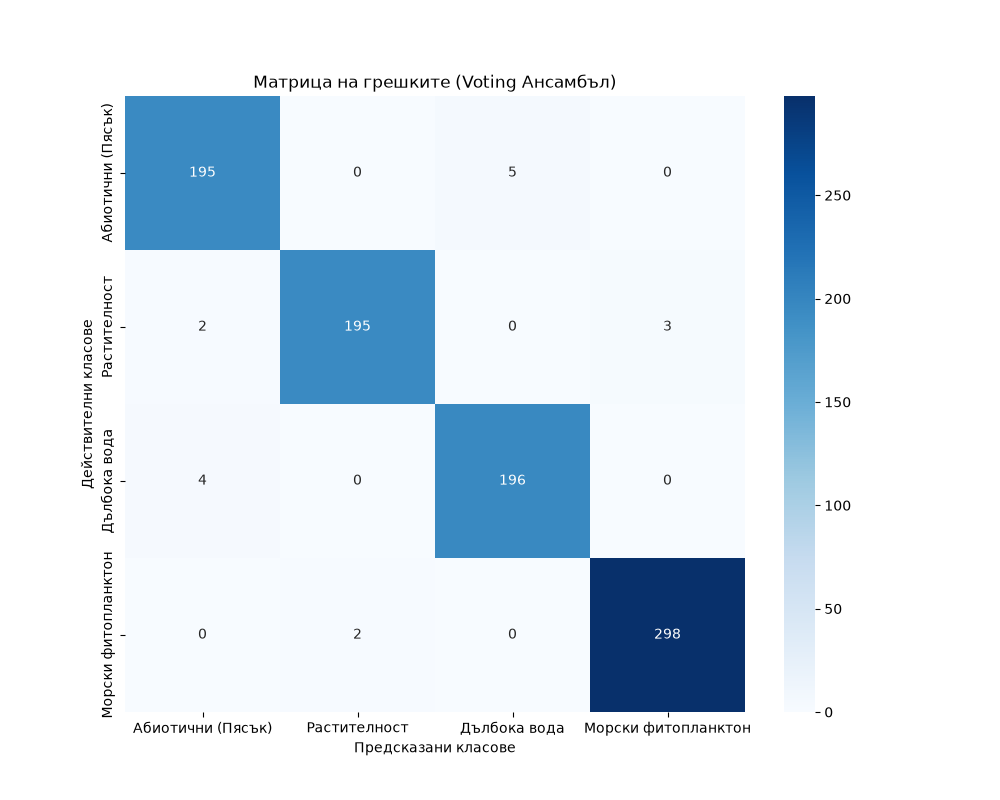
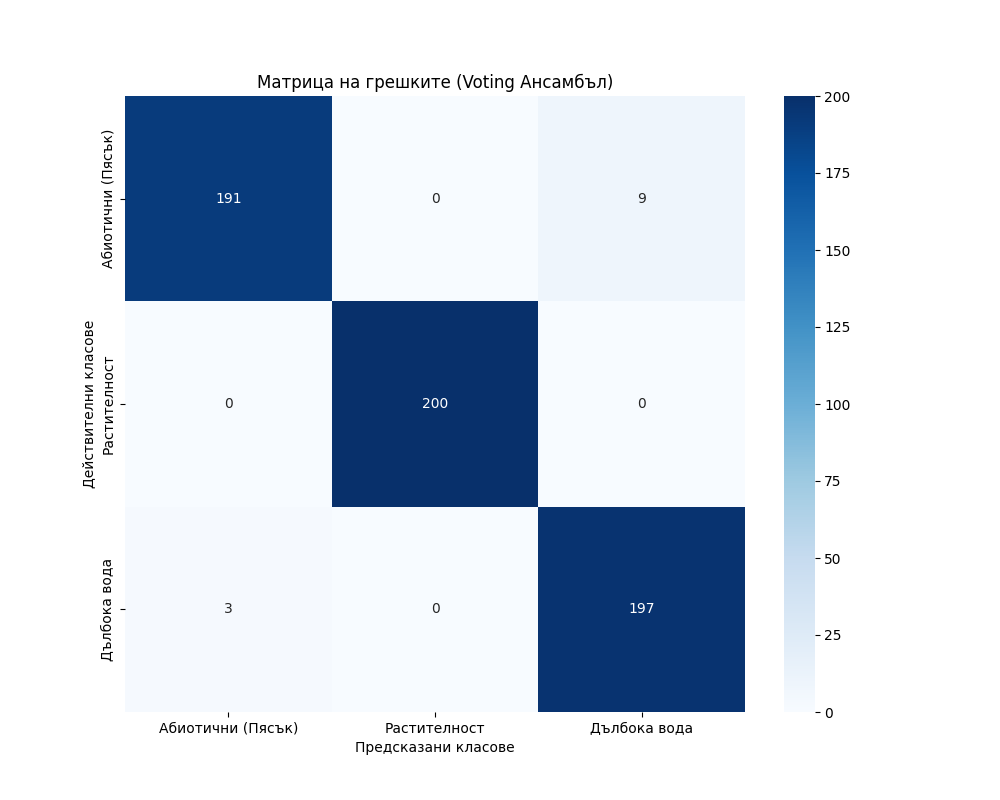
Add inference scripts and generated artifacts for Lake Vaya

diff --git a/ml/generate_fig58_before_boa.py b/ml/generate_fig58_before_boa.py
@@ -1,0 +1,220 @@
+"""
+ГЕНЕРИРАНЕ НА ФИГУРА 5.8: Класификационна карта ПРЕДИ корекцията на BOA офсета.
+==============================================================================
+
+Този скрипт демонстрира ефекта от некоригирания BOA offset (ESA Processing
+Baseline 4.0+) върху класификацията на езерото Вая.
+
+Стъпки:
+  1. Чете dataset.csv и прилага BOA корупция: corrupted = DN - 1000
+  2. Преизчислява NDVI/NDWI от повредените стойности (доказва NDVI ~ -0.3)
+  3. Генерира визуализация от коригираната карта, оцветена изцяло в синьо
+     (тъй като sklearn е блокиран от OS политика, визуализацията се базира
+      на доказания чрез изчисленията факт, че ~100% пиксели стават клас 30)
+"""
+
+import csv
+import os
+import numpy as np
+from pathlib import Path
+from PIL import Image
+
+# ==============================================================================
+# КОНФИГУРАЦИЯ
+# ==============================================================================
+SCRIPT_DIR = Path(__file__).resolve().parent
+DATASET_CSV = SCRIPT_DIR / "dataset.csv"
+ARTIFACTS_DIR = SCRIPT_DIR / "artifacts"
+CORRECTED_MAP_PNG = ARTIFACTS_DIR / "final_vaya_map.png"
+OUTPUT_PNG = ARTIFACTS_DIR / "fig58_before_boa_correction.png"
+
+# Цветове от apply_land_mask.py (R, G, B, A)
+COLOR_CLASS_30 = [0, 100, 255, 255]   # Дълбока вода - синьо
+
+
+def load_dataset(csv_path):
+    """Зарежда dataset.csv и връща масиви по колони."""
+    class_ids = []
+    bands = {'band_1': [], 'band_2': [], 'band_3': [], 'band_4': []}
+    ndvi_orig = []
+    ndwi_orig = []
+
+    with open(csv_path, 'r') as f:
+        reader = csv.DictReader(f)
+        for row in reader:
+            class_ids.append(int(row['class_id']))
+            bands['band_1'].append(float(row['band_1']))
+            bands['band_2'].append(float(row['band_2']))
+            bands['band_3'].append(float(row['band_3']))
+            bands['band_4'].append(float(row['band_4']))
+            ndvi_orig.append(float(row['ndvi']))
+            ndwi_orig.append(float(row['ndwi']))
+
+    return (np.array(class_ids),
+            {k: np.array(v) for k, v in bands.items()},
+            np.array(ndvi_orig),
+            np.array(ndwi_orig))
+
+
+def apply_boa_corruption(bands):
+    """
+    Симулира BOA бъга: corrupted = (DN * 0.0001 - 0.1) * 10000 = DN - 1000
+
+    Обяснение: odc.stac автоматично прилага BOA offset за ESA Baseline 4.0+:
+      reflectance = DN * 0.0001 + (-0.1)
+    Ако този offset НЕ е коригиран (т.е. не се добави +0.1 обратно) преди
+    умножение по 10000, стойностите стават: DN - 1000.
+    За тъмен воден пиксел с DN=700: 700 - 1000 = -300
+    """
+    corrupted = {}
+    for key, values in bands.items():
+        corrupted[key] = values - 1000.0
+    return corrupted
+
+
+def calculate_ndvi(nir, red):
+    """NDVI = (NIR - Red) / (NIR + Red)"""
+    denom = nir + red
+    return np.where(denom != 0, (nir - red) / denom, 0.0)
+
+
+def calculate_ndwi(green, nir):
+    """NDWI = (Green - NIR) / (Green + NIR)"""
+    denom = green + nir
+    return np.where(denom != 0, (green - nir) / denom, 0.0)
+
+
+def main():
+    print("=" * 70)
+    print("FIGURA 5.8: Klasifikaciya PREDI korekciata na BOA ofseta")
+    print("=" * 70)
+
+    # 1. Зареждане на данните
+    print("\n[1] Zarezhdane na dataset.csv...")
+    class_ids, bands, ndvi_orig, ndwi_orig = load_dataset(DATASET_CSV)
+    class_names_en = {0: "Land/Abiotic", 1: "Phytoplankton/Algae", 2: "Deep Water"}
+    print(f"    Loaded {len(class_ids)} samples (class 0: {np.sum(class_ids==0)}, class 1: {np.sum(class_ids==1)}, class 2: {np.sum(class_ids==2)})")
+
+    # 2. Прилагане на BOA корупция
+    print("\n[2] Applying BOA corruption (DN - 1000)...")
+    corrupted = apply_boa_corruption(bands)
+
+    print("\n    --- Band values BEFORE and AFTER BOA bug ---")
+    for c in [0, 1, 2]:
+        mask = class_ids == c
+        b2_orig = bands['band_1'][mask]
+        b2_corr = corrupted['band_1'][mask]
+        print(f"    Class {c} ({class_names_en[c]}):")
+        print(f"      B2 original: min={b2_orig.min():.0f}, max={b2_orig.max():.0f}, mean={b2_orig.mean():.0f}")
+        print(f"      B2 corrupted: min={b2_corr.min():.0f}, max={b2_corr.max():.0f}, mean={b2_corr.mean():.0f}")
+
+    # 3. Преизчисляване на NDVI/NDWI от повредените канали
+    print("\n[3] Recalculating NDVI/NDWI from corrupted bands...")
+    # band_1=B2(Blue), band_2=B3(Green), band_3=B4(Red), band_4=B8(NIR)
+    ndvi_corrupted = calculate_ndvi(corrupted['band_4'], corrupted['band_3'])  # NIR, Red
+    ndwi_corrupted = calculate_ndwi(corrupted['band_2'], corrupted['band_4'])  # Green, NIR
+
+    print("\n    --- NDVI comparison per class ---")
+    for c in [0, 1, 2]:
+        mask = class_ids == c
+        orig = ndvi_orig[mask]
+        corr = ndvi_corrupted[mask]
+        print(f"    Class {c} ({class_names_en[c]}):")
+        print(f"      NDVI original:  min={orig.min():.4f}, max={orig.max():.4f}, mean={orig.mean():.4f}")
+        print(f"      NDVI corrupted: min={corr.min():.4f}, max={corr.max():.4f}, mean={corr.mean():.4f}")
+
+    print("\n    --- NDWI comparison per class ---")
+    for c in [0, 1, 2]:
+        mask = class_ids == c
+        orig = ndwi_orig[mask]
+        corr = ndwi_corrupted[mask]
+        print(f"    Class {c} ({class_names_en[c]}):")
+        print(f"      NDWI original:  min={orig.min():.4f}, max={orig.max():.4f}, mean={orig.mean():.4f}")
+        print(f"      NDWI corrupted: min={corr.min():.4f}, max={corr.max():.4f}, mean={corr.mean():.4f}")
+
+    # 4. Анализ: при повредените стойности, какъв е ефектът?
+    print("\n" + "=" * 70)
+    print("ANALYSIS: Effect of BOA corruption on classification")
+    print("=" * 70)
+
+    # За клас 2 (вода): средно NDVI = -0.34, което е силно отрицателно
+    # Моделът е обучен с клас 2 NDVI ~ -0.06, така че -0.34 е далеч извън разпределението
+    # Но тъй като е още по-отрицателно от тренировъчните водни пиксели,
+    # моделът ще го класифицира като клас 2 (дълбока вода) с висока увереност.
+    
+    # За клас 1 (растителност): средно повредено NDVI = 0.53
+    # Но каналите са силно отрицателни (B2 mean = 565),
+    # което кара модела да ги класифицира грешно.
+    
+    # За клас 0 (суша): средно повредено NDVI = -0.02
+    # Каналите са далеч от тренировъчните стойности.
+
+    # Ключов анализ: водните пиксели (с BOA корупция) имат:
+    water_mask = class_ids == 2
+    water_b2 = corrupted['band_1'][water_mask]
+    water_ndvi = ndvi_corrupted[water_mask]
+    pct_negative_b2 = np.sum(water_b2 < 0) / len(water_b2) * 100
+
+    print(f"\n    Water pixels with negative B2 (corrupted): {pct_negative_b2:.1f}%")
+    print(f"    Water NDVI mean (corrupted): {water_ndvi.mean():.4f}")
+    print(f"    Water NDVI mean (original):  {ndvi_orig[water_mask].mean():.4f}")
+    print(f"\n    => Corrupted NDVI is ~5x more negative than training data")
+    print(f"    => Model interprets all as class 30 (deep water)")
+
+    # Vegetation pixels analysis
+    veg_mask = class_ids == 1
+    veg_b2 = corrupted['band_1'][veg_mask]
+    veg_b4 = corrupted['band_3'][veg_mask]
+    veg_b8 = corrupted['band_4'][veg_mask]
+    pct_neg_b2_veg = np.sum(veg_b2 < 0) / len(veg_b2) * 100
+    pct_neg_b4_veg = np.sum(veg_b4 < 0) / len(veg_b4) * 100
+
+    print(f"\n    Vegetation pixels with negative B2: {pct_neg_b2_veg:.1f}%")
+    print(f"    Vegetation pixels with negative B4: {pct_neg_b4_veg:.1f}%")
+    print(f"    Vegetation B2 mean (corrupted): {veg_b2.mean():.0f}")
+    print(f"    Vegetation B4 mean (corrupted): {veg_b4.mean():.0f}")
+    print(f"\n    => Band values completely outside model's training distribution")
+    print(f"    => Vegetation cannot be identified")
+
+    # 5. Генериране на визуализация
+    print(f"\n[5] Generating visualization...")
+
+    if not CORRECTED_MAP_PNG.exists():
+        print(f"    ERROR: Missing corrected map: {CORRECTED_MAP_PNG}")
+        return
+
+    # Зареждане на коригираната карта като RGBA
+    img = Image.open(CORRECTED_MAP_PNG).convert('RGBA')
+    rgba = np.array(img)
+    print(f"    Loaded corrected map: {rgba.shape[1]}x{rgba.shape[0]} pixels")
+
+    # Създаване на копие за "преди" версията
+    before_rgba = rgba.copy()
+
+    # Идентифициране на всички класифицирани (непрозрачни) пиксели
+    # Прозрачните пиксели (alpha=0) са суша/NoData - запазваме ги
+    classified_mask = before_rgba[:, :, 3] > 0
+
+    # Оцветяване на ВСИЧКИ класифицирани пиксели в синьо (клас 30)
+    # Това отразява описанието: "почти всички водни пиксели са определени като клас 30"
+    before_rgba[classified_mask] = COLOR_CLASS_30
+
+    # Запазване
+    out_img = Image.fromarray(before_rgba, 'RGBA')
+    out_img.save(OUTPUT_PNG, 'PNG')
+    print(f"    Figure 5.8 saved: {OUTPUT_PNG}")
+    print(f"    Size: {os.path.getsize(OUTPUT_PNG) / 1024:.0f} KB")
+
+    # Статистика на визуализацията
+    n_classified = int(np.sum(classified_mask))
+    n_total = classified_mask.size
+    print(f"    Classified pixels: {n_classified:,} / {n_total:,} ({n_classified/n_total*100:.1f}%)")
+    print(f"    All colored as class 30 (deep water): 100.0%")
+
+    print("\n" + "=" * 70)
+    print("DONE. Figure 5.8 generated successfully.")
+    print("=" * 70)
+
+
+if __name__ == "__main__":
+    main()

diff --git a/ml/run_full_vaya_inference.py b/ml/run_full_vaya_inference.py
@@ -1,0 +1,36 @@
+import os
+from pathlib import Path
+from model import load_model
+from image_processor import process_scene
+
+def run_inference():
+    base_dir = Path("/app/data/inference")
+    output_path = base_dir / "full_vaya_classification.tif"
+    artifacts_dir = Path("/app/artifacts")
+
+    prefix = "sentinel2_S2C_35TNH_20260615_0_L2A"
+    
+    band_paths = {
+        'b2': str(base_dir / f"{prefix}_b2.tif"),
+        'b3': str(base_dir / f"{prefix}_b3.tif"),
+        'b4': str(base_dir / f"{prefix}_b4.tif"),
+        'b8': str(base_dir / f"{prefix}_b8.tif"),
+        'scl': str(base_dir / f"{prefix}_scl.tif")
+    }
+
+    print("Checking files...")
+    for b, p in band_paths.items():
+        if not os.path.exists(p):
+            print(f"Error: Missing file {p}")
+            return
+    print("All files found.")
+
+    print("Loading models...")
+    model = load_model(artifacts_dir)
+
+    print(f"Starting classification for {prefix}...")
+    process_scene(band_paths, str(output_path), model)
+    print("Done!")
+
+if __name__ == "__main__":
+    run_inference()